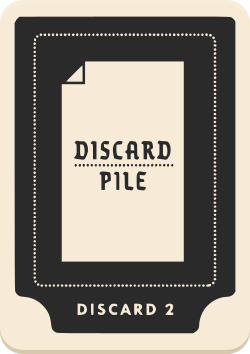
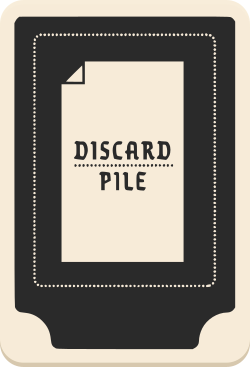
Added card count indicators to the decks. -Updated draw and discard pile sprites to accommodate the new numbers. -The number of cards in a deck is now clearly visible and changes with the card animations.

diff --git a/secret-hitler-online-interface/src/board/Deck.js b/secret-hitler-online-interface/src/board/Deck.js
@@ -15,6 +15,7 @@ const TRANSITION_HIDE = "deck-transition-hide";
 class Deck extends Component {
 
     cardStates;
+    numCards;
 
     constructor(props) {
         super(props);
@@ -24,6 +25,7 @@ class Deck extends Component {
         };
 
         this.cardStates = [MAX_CARDS];
+        this.numCards = this.props.cardCount;
         for (let i = 0; i < MAX_CARDS; i++) {
             if (i < this.props.cardCount) {
                 this.cardStates[i] = FINAL_SHOW;
@@ -54,7 +56,7 @@ class Deck extends Component {
                 delayChangeState = 510;
                 for (let i = oldCount - 1; i >= newCount; i--) {
                     // Start transition out, then move to final hidden position.
-                    setTimeout(() => {this.cardStates[i] = TRANSITION_HIDE; this.forceUpdate()}, totalDelay);
+                    setTimeout(() => {this.cardStates[i] = TRANSITION_HIDE; this.numCards = i; this.forceUpdate()}, totalDelay);
                     setTimeout(() => {this.cardStates[i] = FINAL_HIDE; this.forceUpdate()}, totalDelay + delayChangeState);
                     totalDelay += delayNext;
                 }
@@ -64,19 +66,19 @@ class Deck extends Component {
                 for (let i = oldCount; i < newCount; i++) {
                     // Start transition in, then move to final shown position.
                     setTimeout(() => {this.cardStates[i] = TRANSITION_SHOW; this.forceUpdate()}, totalDelay);
-                    setTimeout(() => {this.cardStates[i] = FINAL_SHOW; this.forceUpdate()}, totalDelay + delayChangeState);
+                    setTimeout(() => {this.cardStates[i] = FINAL_SHOW; this.numCards = i + 1; this.forceUpdate()}, totalDelay + delayChangeState);
                     totalDelay += delayNext;
                 }
             }
             // After all cards have played their animations, reset the card count and signal the end of the anim.
-            setTimeout(() => {this.setState({playingAnimation: false, cardCount: newCount})});
+            setTimeout(() => {this.setState({playingAnimation: false, cardCount: newCount});}, totalDelay);
         }
     }
 
     getCards() {
         let cards = [MAX_CARDS];
         let topOffset = 9;
-        let topDistance = 2.5;
+        let topDistance = 2;
         for (let i = 0; i < MAX_CARDS; i++) {
             let top = topOffset - (topDistance * i);
             if (this.cardStates[i] === FINAL_HIDE) { // Move the hidden card up so it transition in later.
@@ -99,6 +101,9 @@ class Deck extends Component {
     render() {
         return(
             <div id={"deck-container"} style={{position:"relative"}}>
+                <p id={"deck-card-count"}>
+                    {this.numCards}
+                </p>
                 <img id={"deck-base"}
                      src={(this.props.deckType === "DRAW" ? DrawDeck : DiscardDeck)}
                      alt={"The " + this.props.deckType.toLowerCase() + " deck. (" + this.props.cardCount + " policies)"}/>

diff --git a/secret-hitler-online-interface/src/board/Deck.css b/secret-hitler-online-interface/src/board/Deck.css
@@ -9,6 +9,16 @@
     height: auto;
 }
 
+#deck-card-count {
+    font-size: 3.5vmin;
+    position: absolute;
+    color: var(--textColorWhite);
+    left: 30%;
+    top: 58%;
+    text-align: center;
+    width: 40%;
+}
+
 #deck-policy {
     position: absolute;
     width: 69%;
